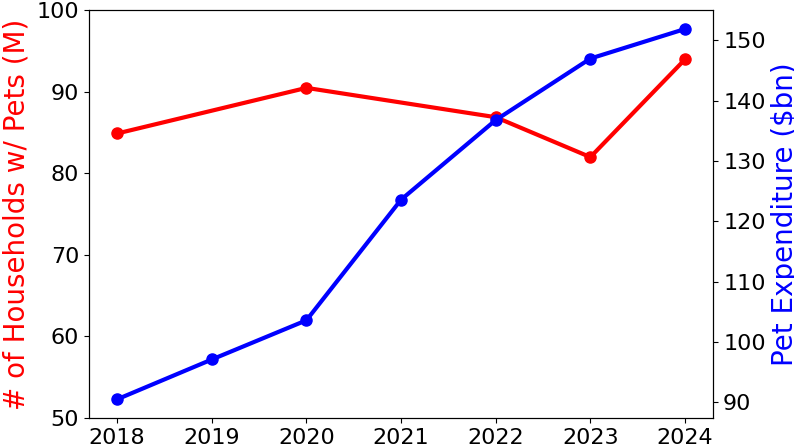
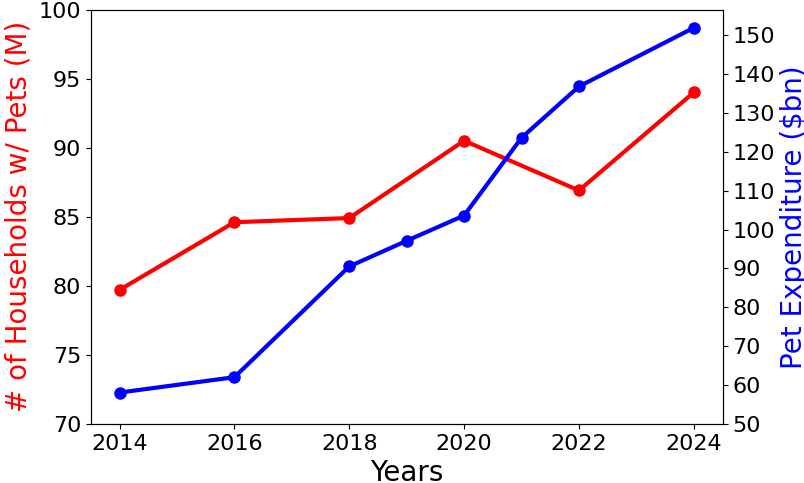
hh

diff --git a/model2/code/householdsAndSpending.py b/model2/code/householdsAndSpending.py
@@ -17,7 +17,7 @@ ax2.plot(everyYear, petCareSpending,
 
 ax1.set_xlabel("Years", fontsize=20)
 ax1.set_ylabel("# of Households w/ Pets (M)", color="red", fontsize=20)
-ax1.set_yticks(np.arange(50,101,10))
+ax1.set_yticks(np.arange(70,101,5))
 ax2.set_ylabel("Pet Expenditure ($bn)", color="blue", fontsize=20)
 ax2.set_yticks(np.arange(50,151,10))
 
